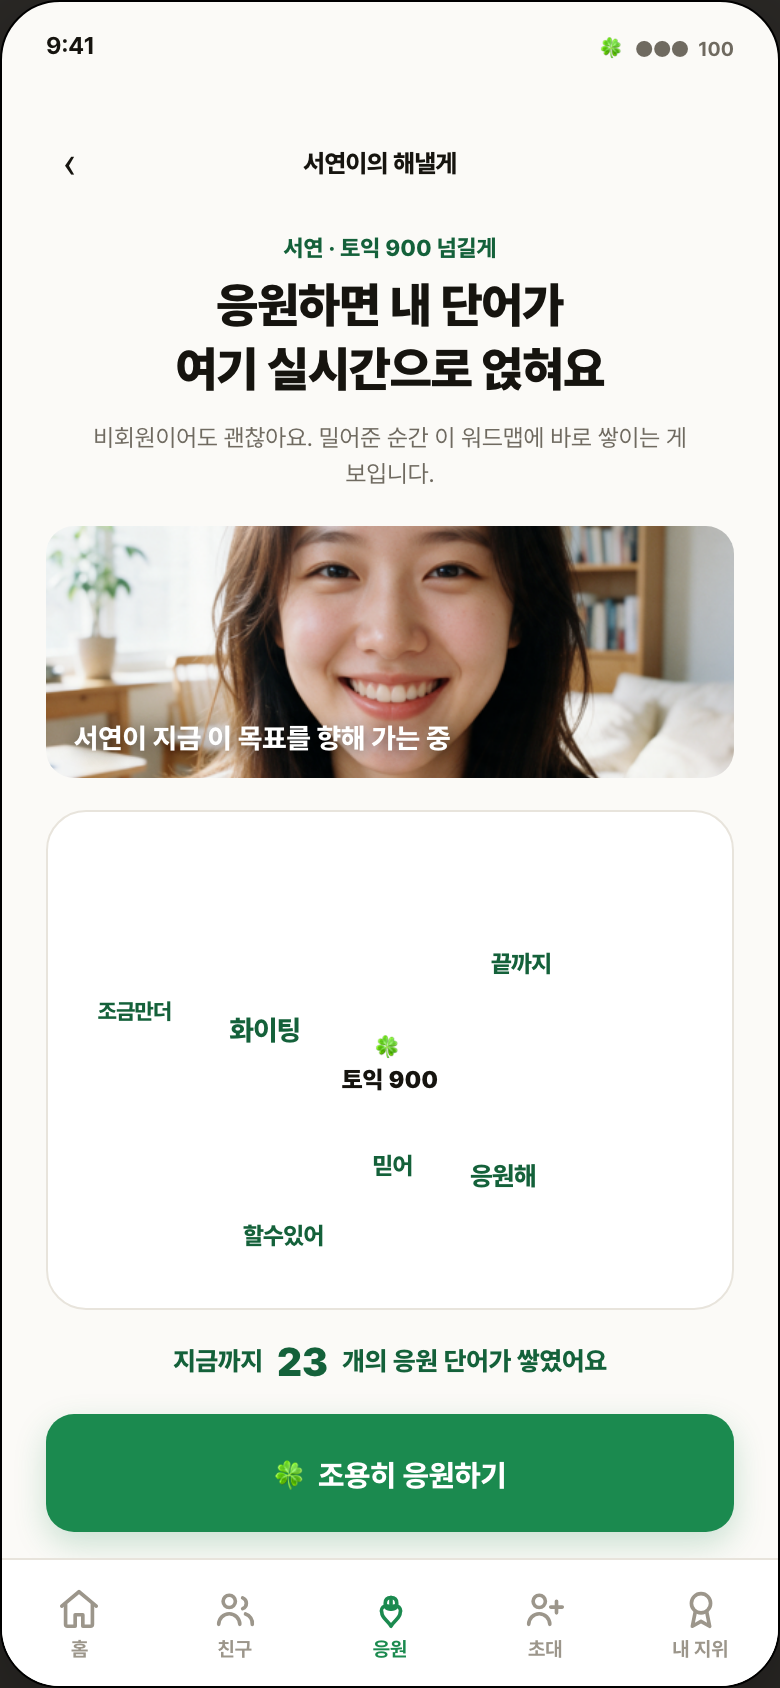
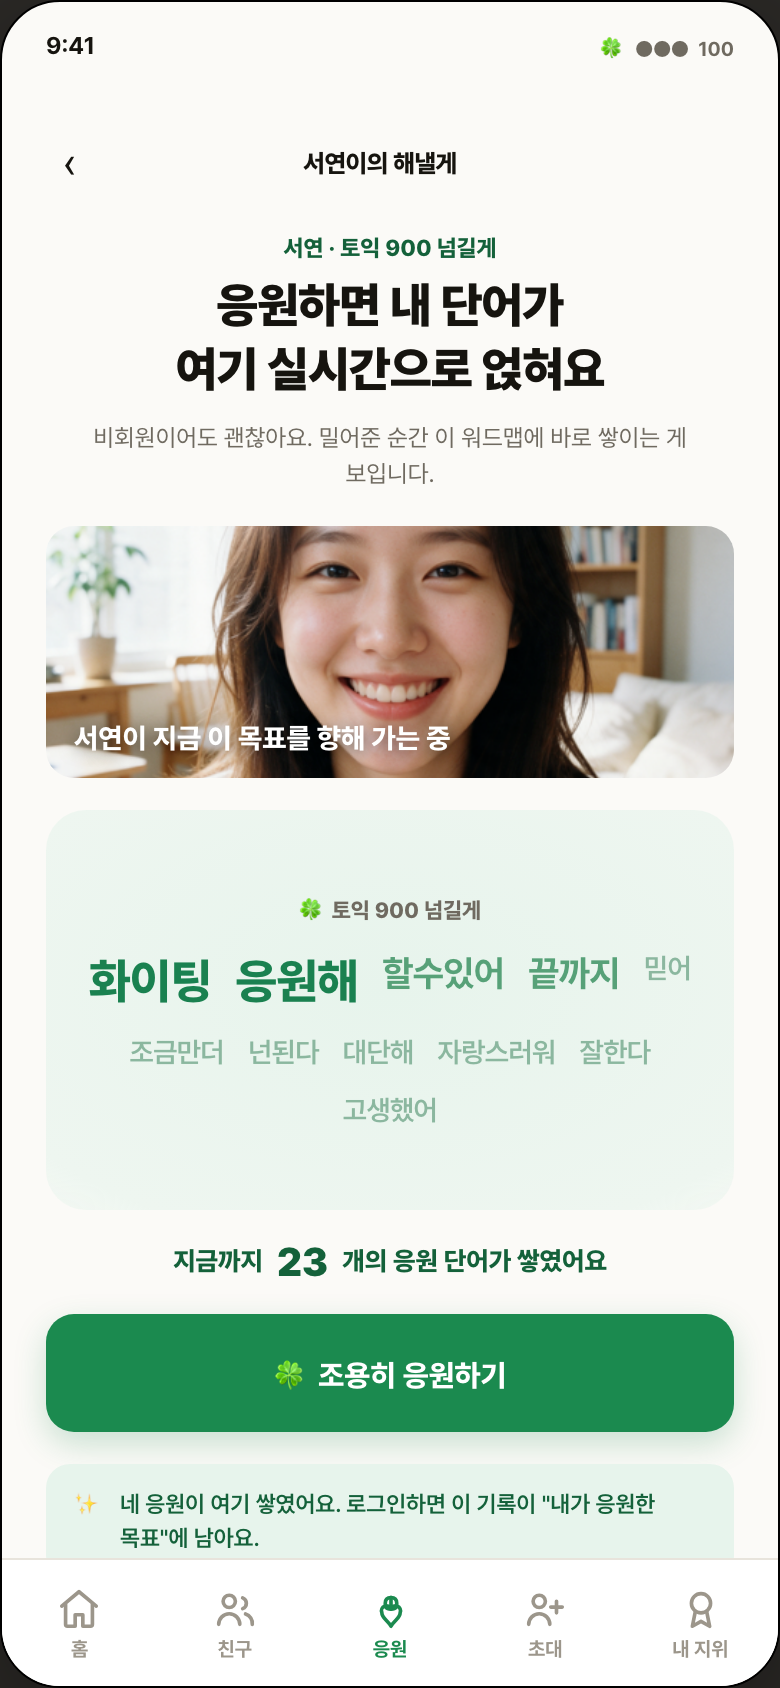
design(v2): 워드맵 빈도집계(SizeTier)·홈 목표관리·결제 전이트리거 실배포 로직 계승 (회장 2026-09-25)

diff --git a/docs/design/prototypes/social-viral-loop-v2-opus48.html b/docs/design/prototypes/social-viral-loop-v2-opus48.html
@@ -217,13 +217,17 @@
   .dopa-top h2{font-size:24px;font-weight:900;letter-spacing:-.3px;margin-top:6px;line-height:1.35;word-break:keep-all;}
   .dopa-top p{font-size:12px;color:var(--muted);margin-top:8px;line-height:1.55;word-break:keep-all;}
   /* 워드맵 캔버스 */
-  .wordmap{position:relative;height:250px;background:var(--surface);border:1px solid var(--line);border-radius:var(--r-lg);margin-top:16px;overflow:hidden;}
-  .wm-word{position:absolute;font-weight:800;letter-spacing:-.3px;color:var(--clover-ink);white-space:nowrap;transform:translate(-50%,-50%);}
-  .wm-word.mine{color:var(--clover-bright);}
-  .wm-word.landing{animation:wmland .62s cubic-bezier(.2,1.1,.35,1) both;}
-  @keyframes wmland{0%{opacity:0;transform:translate(-50%,-50%) scale(.5);}60%{transform:translate(-50%,-50%) scale(1.08);}100%{opacity:1;transform:translate(-50%,-50%) scale(1);}}
-  .wm-center{position:absolute;left:50%;top:50%;transform:translate(-50%,-50%);text-align:center;pointer-events:none;}
-  .wm-center .wc-goal{font-size:12px;font-weight:900;color:var(--ink);}
+  /* 워드맵 = 실배포 Wordmap.tsx 계승: 같은 단어 word_count 합산 → 빈도 tier(s1/s2/s3)로 크기·색, flex-wrap 클라우드(겹침 0 by construction), clover 옅은 radial */
+  .wordmap{display:flex;flex-wrap:wrap;align-content:center;justify-content:center;gap:10px 12px;min-height:200px;padding:20px 16px;border-radius:var(--r-lg);margin-top:16px;
+    background-image:radial-gradient(90% 90% at 50% 45%,var(--clover-soft),#EEF6F0 72%,transparent);}
+  .wm-word{letter-spacing:-.3px;line-height:1.35;transition:font-size .3s,color .3s;}
+  .wm-word.s1{color:#8bb79f;font-weight:600;font-size:14px;}
+  .wm-word.s2{color:#57a178;font-weight:700;font-size:18px;}
+  .wm-word.s3{color:#1a8150;font-weight:800;font-size:24px;}
+  .wm-word.landing{animation:wmland .5s cubic-bezier(.2,1.1,.35,1) both;}
+  @keyframes wmland{0%{opacity:0;transform:scale(.5);}60%{transform:scale(1.12);}100%{opacity:1;transform:scale(1);}}
+  .wm-goalword{width:100%;text-align:center;font-size:11px;font-weight:800;color:var(--muted);margin-bottom:2px;}
+  .wm-center,.wm-center .wc-goal{display:none;}
   .wm-count{display:flex;align-items:center;justify-content:center;gap:7px;margin-top:14px;font-size:13px;font-weight:800;color:var(--clover-ink);}
   .wm-count .n{font-size:20px;font-weight:900;transition:transform .3s;}
   .wm-count .n.bump{transform:scale(1.25);}
@@ -338,6 +342,14 @@
   .goalcard .gcheer{display:flex;align-items:center;gap:5px;font-size:12px;font-weight:800;color:var(--clover-ink);}
   .goalcard .gview{font-size:12px;font-weight:800;color:#fff;background:var(--clover);border:none;border-radius:var(--r-full);padding:9px 15px;cursor:pointer;box-shadow:0 4px 12px rgba(27,138,79,.2);}
   .home-past{font-size:11px;font-weight:700;color:var(--faint);margin:20px 2px 2px;}
+  .gactions{display:flex;gap:7px;margin-top:12px;flex-wrap:wrap;}
+  .gchip{display:inline-flex;align-items:center;gap:4px;font-size:11px;font-weight:700;color:var(--muted);background:var(--warm);border:1px solid var(--line);border-radius:var(--r-full);padding:7px 11px;cursor:pointer;}
+  .gchip svg{width:13px;height:13px;fill:none;stroke:currentColor;stroke-width:2;stroke-linecap:round;stroke-linejoin:round;}
+  .gchip.preview{background:var(--clover-soft);border-color:#cfe8d8;color:var(--clover-ink);}
+  .home-add{display:flex;align-items:center;justify-content:center;gap:7px;width:100%;border:1.5px dashed var(--clover);color:var(--clover-ink);background:var(--clover-soft);border-radius:var(--r-md);padding:14px;font-size:13px;font-weight:800;cursor:pointer;margin-top:13px;}
+  .home-cashout{display:flex;align-items:center;justify-content:space-between;background:var(--surface);border:1px solid var(--line);border-radius:var(--r-md);padding:13px 15px;margin-top:11px;cursor:pointer;}
+  .home-cashout .cl2{font-size:12px;font-weight:700;color:var(--ink);}
+  .home-cashout .cv2{font-size:11px;font-weight:800;color:var(--clover-ink);}
 
   /* ── 계승 화면 공통 ── */
   .wordmark{font-size:12.5px;font-weight:800;letter-spacing:-.2px;color:var(--ink);}
@@ -541,6 +553,13 @@
       <span class="fmeta"><span class="ml"><span class="mk">경로</span><span class="mv"><code>app/g/[slug]</code> · 배포됨</span></span><span class="ml"><span class="mk">진입</span><span class="mv">인스타·카톡 공유 링크 (비회원 도착점)</span></span><span class="ml"><span class="mk">상태</span><span class="mv">계승 · 도파민 순간의 실배포 바탕</span></span></span>
     </span>
   </div>
+  <div class="farrow"><span>↓</span><span class="lbl">"응원하기"(CheerPaymentButton) → 토스 PG(외부 리다이렉트)</span></div>
+  <div class="fnode" style="border-style:dashed;border-color:#8a857c;opacity:.85" onclick="alert('외부: 토스 PG 결제창. successUrl → /payment/success, failUrl → /payment/fail 로 콜백 복귀.')">
+    <span class="fi">💳</span><span class="fl">토스 PG (외부 결제창)
+      <span class="fmeta"><span class="ml"><span class="mk">경로</span><span class="mv">외부 · 토스페이먼츠 SDK</span></span><span class="ml"><span class="mk">콜백</span><span class="mv">successUrl → 결제성공 · failUrl → 결제실패</span></span></span>
+    </span>
+  </div>
+  <div class="farrow"><span>↓</span><span class="lbl">성공 콜백 → payment/success · 실패 콜백 → payment/fail</span></div>
   <div class="fnode" data-loop="login" onclick="go('login')">
     <span class="fi">🔑</span><span class="fl">카카오 로그인 (auth)
       <span class="fmeta"><span class="ml"><span class="mk">경로</span><span class="mv"><code>/auth/kakao/start</code> · 배포됨</span></span><span class="ml"><span class="mk">진입</span><span class="mv">온보딩 저장·재로그인·소셜 로그인 필요 시</span></span><span class="ml"><span class="mk">상태</span><span class="mv">계승 · 비회원↔회원 경계</span></span></span>
@@ -660,6 +679,11 @@
           <div class="gtop"><span class="chip dday">D-12</span><span class="chip status">진행 중</span></div>
           <h3>토익 900 넘길게</h3>
           <div class="greason">교환학생 지원 마감 전에 점수를 만들어야 해서.</div>
+          <div class="gactions">
+            <span class="gchip"><svg viewBox="0 0 24 24"><path d="M12 20h9"/><path d="M16.5 3.5a2.1 2.1 0 0 1 3 3L7 19l-4 1 1-4Z"/></svg>수정</span>
+            <span class="gchip preview" onclick="go('goalpublic')"><svg viewBox="0 0 24 24"><path d="M2 12s3.5-7 10-7 10 7 10 7-3.5 7-10 7-10-7-10-7Z"/><circle cx="12" cy="12" r="2.6"/></svg>친구에게 이렇게 보여요</span>
+            <span class="gchip" onclick="go('login')"><svg viewBox="0 0 24 24"><path d="M8.6 13.5l6.8 3.9M15.4 6.6l-6.8 3.9"/><circle cx="18" cy="5" r="2.6"/><circle cx="6" cy="12" r="2.6"/><circle cx="18" cy="19" r="2.6"/></svg>링크 공유</span>
+          </div>
           <div class="gfoot">
             <span class="gcheer">🍀 응원 23명</span>
             <button class="gview" onclick="go('dopamine')">워드맵 보기</button>
@@ -670,10 +694,21 @@
           <div class="gtop"><span class="chip dday">D-40</span><span class="chip status">진행 중</span></div>
           <h3>주 3회 러닝 습관 만들게</h3>
           <div class="greason">작년에 세 번 실패해서 이번엔 친구랑 같이 한다.</div>
+          <div class="gactions">
+            <span class="gchip"><svg viewBox="0 0 24 24"><path d="M12 20h9"/><path d="M16.5 3.5a2.1 2.1 0 0 1 3 3L7 19l-4 1 1-4Z"/></svg>수정</span>
+            <span class="gchip preview" onclick="go('goalpublic')"><svg viewBox="0 0 24 24"><path d="M2 12s3.5-7 10-7 10 7 10 7-3.5 7-10 7-10-7-10-7Z"/><circle cx="12" cy="12" r="2.6"/></svg>친구에게 이렇게 보여요</span>
+            <span class="gchip" onclick="go('login')"><svg viewBox="0 0 24 24"><path d="M8.6 13.5l6.8 3.9M15.4 6.6l-6.8 3.9"/><circle cx="18" cy="5" r="2.6"/><circle cx="6" cy="12" r="2.6"/><circle cx="18" cy="19" r="2.6"/></svg>링크 공유</span>
+          </div>
           <div class="gfoot">
             <span class="gcheer">🍀 응원 8명</span>
             <button class="gview" onclick="go('dopamine')">워드맵 보기</button>
           </div>
+        </div>
+
+        <button class="home-add" onclick="go('onboarding')">＋ 새 목표 만들기</button>
+        <div class="home-cashout" onclick="go('cashout')">
+          <span class="cl2">🍀 모은 클로버로 환전하기</span>
+          <span class="cv2">92개 지급 가능 ›</span>
         </div>
 
         <div class="home-past">지난 목표</div>
@@ -1043,7 +1078,15 @@
         </div>
         <div class="wm-count" style="margin-top:14px"><span>지금까지</span> <span class="n">23</span> <span>명이 응원했어요</span></div>
         <div class="wordmap" id="wordmap2" style="margin-top:10px">
-          <div class="wm-center"><div class="wc-goal">🍀<br>토익 900</div></div>
+          <div class="wm-goalword">🍀 토익 900 넘길게</div>
+          <span class="wm-word s3">화이팅</span>
+          <span class="wm-word s2">응원해</span>
+          <span class="wm-word s2">할수있어</span>
+          <span class="wm-word s2">끝까지</span>
+          <span class="wm-word s1">믿어</span>
+          <span class="wm-word s1">조금만더</span>
+          <span class="wm-word s1">넌된다</span>
+          <span class="wm-word s1">대단해</span>
         </div>
         <div style="height:150px"></div>
       </div></div>
@@ -1283,7 +1326,8 @@
   🏷 STAMP | line: core | 생성: 2026-09-23 07:40 KST | model: claude-opus-4-8 | agent: product-designer | 근거: globals.css·blueprint-v1.0.0·idea-ledger·결정.md D-003/D-009/D-017·friends-invite-v1<br>
   <b>STAMP</b> line=core · social-viral-loop-v2-opus48.html · 생성 2026-09-23 07:40 KST · model claude-opus-4-8 · agent product-designer<br>
   <b>v2 변경</b> ①왼쪽 전역 플로우맵 고정 레일 — 각 노드에 라우터 경로·진입 화면·신규/수정 diff를 레일 위 글자로 표기(신규↔기존 배포 화면 화살표 연결) ②인물 자리 Higgsfield 실사(seedream_v5_pro) 5종 삽입 — 이모지·이니셜 전량 제거 ③화면별 우측 검수 패널에 v2 개정 변경점(chg) 표출 ④아트보드 안 설계·원칙 주석(도파민 원칙·열린결정 배지) 전량 제거 → 검수 패널로 이관(아트보드 주석 0) ⑤기존 배포 홈((receiver)/me 다중목표) 실제 디바이스 프레임으로 계승 추가 + 하단 탭바에 홈 진입 신설<br>
-  <b>v2 확장(실배포 전수 계승)</b> ⑥실배포 라우트 15개 전수 Read(screen-inventory.md 정본·globals.css @theme 토큰·DESIGN.md 브랜드) → 커버리지 대조표(계승10·연결4·누락사유명시1·누락무사유0, 권한축 비회원·회원·관리자 + 돈축 결제·환전 전부 커버) ⑦누락 기존 화면 실프레임 계승: 랜딩·공개목표(g/[slug])·카카오로그인(auth)·온보딩·이용안내·결제성공·결제실패·환전·환전상태·관리자 ⑧버그: 도파민 워드맵 겹침0 충돌회피 배치 + 하단탭 이모지→인라인 SVG(단색 stroke·clover accent)<br>
+  <b>v2 확장(실배포 전수 계승)</b> ⑥실배포 라우트 15개 전수 Read(screen-inventory.md 정본·globals.css @theme 토큰·DESIGN.md 브랜드) → 커버리지 대조표(계승10·연결4·누락사유명시1·누락무사유0, 권한축 비회원·회원·관리자 + 돈축 결제·환전 전부 커버) ⑦누락 기존 화면 실프레임 계승: 랜딩·공개목표(g/[slug])·카카오로그인(auth)·온보딩·이용안내·결제성공·결제실패·환전·환전상태·관리자 ⑧하단탭 이모지→인라인 SVG(단색 stroke·clover accent)<br>
+  <b>v2 로직 계승(회장 "그림만 계승" 지적)</b> ⑨워드맵: 실배포 Wordmap.tsx 계승 — 같은 단어 word_count 합산·빈도 tier(s1 #8bb79f 14px/s2 #57a178 18px/s3 #1a8150 24px)·flex-wrap 클라우드(겹침0)·상위12. 응원 시 그 단어 +1 → tier 성장 ⑩홈: me/page.tsx 목표 관리 액션 계승(수정·친구뷰 미리보기·링크 공유·새 목표→온보딩·환전 진입) ⑪결제 트리거 체인: 응원하기→토스 PG(외부)→successUrl/failUrl→성공/실패를 레일·검수패널에 화살표로 명시<br>
   <b>skills</b> design-consultation(방향·토큰 상속 확인) · design-html(hi-fi 목업) · design-review(headless 렌더·클릭·상태토글 QA) · Higgsfield CLI(seedream_v5_pro 실사)<br>
   <b>토큰</b> web/src/app/globals.css 실독(clover #1B8A4F · warm #F4EFE6 · radius 12/14/20 · Pretendard) — 진실원 계승<br>
   <b>근거</b> haenael-v2-blueprint-v1.0.0-opus48.md(§3.4·§5·§6) · idea-ledger #11·#12·#13·2026-09-15·2026-09-21 · one-thing.md · 결정.md D-003·D-009 · 계승 프로토 friends-invite-v1·landing-wordmap-i18n-v2<br>
@@ -1296,7 +1340,7 @@
     home: {
       psych: '기준점(anchoring)+진행 가시화. 기존 배포 홈(내 목표 목록)을 그대로 계승해 회장이 "무엇이 바뀌었나"를 바로 대조하게 한다. 목표 카드·클로버 잔액·워드맵 보기 CTA는 실배포 그대로, 바뀐 건 하단탭 진입점뿐.',
       bench: '토스 홈(잔액+할 일 카드) · 당근 나의 당근 · Strava 홈 피드. "잔액 요약 + 진행 카드 리스트 + 단일 CTA" 구조 차용. 이 홈은 신규 발명이 아니라 실배포 (receiver)/me 계승.',
-      inherit: '계승: 실배포 web/src/app/(receiver)/me/page.tsx — 다중 목표(진행 중 최대 3 + 지난 목표), 목표 카드(제목·D-day·상태칩·응원 인원 클로버·"워드맵 보기"→/wordmap/{goalId}), 클로버 잔액. 신규: 하단탭에 친구·응원·초대·내지위 4개 진입점 신설(이 홈이 v2 루프의 관문).',
+      inherit: '계승: 실배포 web/src/app/(receiver)/me/page.tsx:235-360 — 다중 목표(진행 중 3+지난) + 목표 카드 관리 액션 전부: GoalEditSheet(수정)·MyLinkCard(링크 공유)·friend-view-preview(👀 친구에게 이렇게 보여요→/g/slug)·워드맵 보기(→/wordmap/goalId)·SplitBalanceCard(클로버 잔액)·환전 진입(→/cashout, pending 시 /cashout/status)·새 목표(→onboarding). 목록만이 아니라 관리 CRUD 진입을 계승. 신규: 하단탭 4개 소셜 진입점.',
       prd: '실배포 계승 화면. 다중목표=설계 4.4~4.6절. v2 변경분(하단탭 신규 진입점)만 이번 스코프. PRD 정본은 기존 receiver-home 유지 + 소셜 진입점 plan 승격 대기.',
       chg: [
         {w:'<b>기존 배포 홈을 실제 디바이스 프레임으로 프로토타입에 추가</b> — 레일 노드로만 두지 않고 실화면 계승. 홈에서 v2가 무엇을 바꿨는지(하단탭 신규 진입점)가 눈에 보임.', fb:'회장: "기존 화면도 보여주어서 어떻게 변경됐거나 흐름이 연결되는지 보여줘야지"'},
@@ -1355,7 +1399,7 @@
     dopamine: {
       psych: '즉각 보상(variable reward의 조용한 변형)+진행 가시화. 응원 순간 내 단어가 워드맵에 얹히는 걸 "직접 보게" 해 activation 도파민을 준다. 비회원 피드백은 손실회피("이 기록이 남아요")로 승격을 당김.',
       bench: 'Strava 기록 실시간 반영 · 인스타 좋아요 애니메이션 · 카훗 실시간 집계. "즉각 시각 피드백"을 차용하되 폭죽·순위상승 알림(D-003 위배)은 배제.',
-      inherit: '계승: landing-wordmap-i18n-v2의 워드맵 구성·clover-ink 단어색. 신규: 클릭 시 단어 실시간 적립 @keyframes wmland·카운터 bump·비회원 피드백 배너.',
+      inherit: '계승(실배포 로직): web/src/components/goal/Wordmap.tsx — normalizeWords(같은 단어 word_count 합산·내림차순 정렬)·getSizeTier(ratio (count-min)/(max-min) ≥.67 s3 / ≥.34 s2 / else s1)·TIER_STYLE(s1 #8bb79f 14px / s2 #57a178 18px / s3 #1a8150 24px)·flex-wrap 클라우드(겹침 0 by construction)·상위 12개·clover 옅은 radial 배경. 프로토타입도 이 빈도 집계 그대로 재현 — 자주 나온 단어는 크게. 신규: 클릭 시 그 단어 word_count +1 → tier 재계산해 실시간 성장(landing 애니).',
       prd: 'idea-ledger 2026-09-21(도파민 UX·비회원 activation) · user-flow 2절(비로그인 열람·승격 CTA). blueprint 3.2 접합. PRD 5.2 승격 CTA 인접.',
       chg: [
         {w:'목표 주인공(서연)의 <b>실사 히어로 사진</b> 삽입 — 비회원이 "누구를 응원하는지" 얼굴로 인지.', fb:'회장: "힉스필드는 안씀?"'},
@@ -1401,16 +1445,16 @@
       bench:'토스 송금 완료 · 결제 성공 카드(스트라이프). 성공 카드+맥락 복귀 CTA 차용.',
       inherit:'계승(실배포): web/src/app/payment/success/page.tsx:81-113 — 중앙 카드·Clover 아이콘(lucide SVG)·"응원이 전달됐어요"·목표 제목 반영 메시지·친구 목표로 돌아가기. v2 미변경.',
       prd:'실배포 계승. screen-inventory G4. 토스 결제 승인 후 착지(돈축).',
-      flow:[['진입','토스 결제 승인 콜백'],['이탈','친구 목표로(goal-public) · 해낼게 홈(landing)']],
-      opendec:'없음(실배포 계승).'
+      flow:[['트리거 체인','공개목표/도파민 "응원하기"(CheerPaymentButton) → 토스 PG(외부) → successUrl'],['진입','토스 successUrl 콜백 → confirmPayment({paymentKey,orderId,amount}) 승인'],['이탈','goalSlug 있으면 친구 목표로(/g/slug) 복귀(워드맵 반영) · 없으면 홈']],
+      opendec:'외부 콜백 화면: 이 화면은 사용자가 직접 못 열고 토스 결제 승인 리다이렉트로만 도달. confirmPayment 실패 시 같은 화면에서 error 분기(status=error).'
     },
     payfail: {
       psych:'불안 최소화+회복 경로. "결제가 멈췄어요"로 실패를 담담히 알리고 즉시 재시도 경로 제공.',
       bench:'토스/스트라이프 결제 실패 카드. 사유 표시+재시도 차용.',
       inherit:'계승(실배포): web/src/app/payment/fail/page.tsx:21-37 — 중앙 카드·CircleAlert(lucide SVG)·"결제가 멈췄어요"·message 쿼리·홈 복귀. v2 미변경.',
       prd:'실배포 계승. screen-inventory G4(돈축 환불·실패).',
-      flow:[['진입','토스 결제 실패 콜백'],['이탈','다시 응원(goal-public) · 홈(landing)']],
-      opendec:'환불(취소) 전용 화면은 실배포에 별도 라우트 없음 — 결제 실패/환전 반려로 커버. 대조표 참조.'
+      flow:[['트리거 체인','공개목표/도파민 "응원하기" → 토스 PG(외부) → failUrl(사용자 취소·카드 오류·타임아웃)'],['진입','토스 failUrl 콜백 → message 쿼리 표시'],['이탈','다시 응원(goal-public) · 홈(landing)']],
+      opendec:'외부 콜백 화면: 토스 failUrl 리다이렉트로만 도달. 환불(취소) 전용 화면은 실배포에 별도 라우트 없음 — 결제 실패/환전 반려(REJECTED)로 커버. 대조표 참조.'
     },
     cashout: {
       psych:'투명성+신뢰. 지급 가능 클로버·원천징수·실수령액을 미리 다 보여줘 돈 관련 불신을 없앤다.',
@@ -1542,65 +1586,45 @@
     document.getElementById('rankPreview').classList.toggle('show', sw.classList.contains('on'));
   }
 
-  // 도파민 순간 — 응원 시 워드맵 실시간 적립 (조용한 도파민 · 겹침 0 배치)
-  const dopaWords=['잘한다','응원해','화이팅','넌된다','조금만','대단해','자랑스러워','끝까지','믿어','고생했어'];
-  let dopaIdx=0, wmTotal=23;
-  let wmPlaced=[]; // 배치된 단어 박스 {x,y,w,h} in % (중심좌표)
-  // 두 박스가 겹치는지 (가운데 목표칩 포함, 여백 gap%)
-  function wmOverlap(a,b,gap){
-    return Math.abs(a.x-b.x)*2 < (a.w+b.w+gap) && Math.abs(a.y-b.y)*2 < (a.h+b.h+gap);
+  // ── 워드맵 = 실배포 Wordmap.tsx(normalizeWords·getSizeTier) 계승 ──
+  // 같은 단어 word_count 합산 → 내림차순 정렬 → 빈도 ratio 로 s1/s2/s3 크기·색 → 상위 12개 flex-wrap 렌더(겹침 0)
+  const dopaWords=['잘한다','응원해','화이팅','넌된다','조금만더','대단해','자랑스러워','끝까지','믿어','고생했어'];
+  let dopaIdx=0, wmTotal=23, lastWord='';
+  // 실배포 get_wordmap RPC 결과 모사: {단어: word_count}
+  let wmCounts={'화이팅':8,'응원해':6,'할수있어':5,'끝까지':4,'믿어':3,'조금만더':3,'넌된다':2,'대단해':2,'자랑스러워':1,'잘한다':1,'고생했어':1};
+  // 실배포 getSizeTier: n===1→s3, max===min→s2, ratio(count-min/max-min) ≥.67 s3 / ≥.34 s2 / else s1
+  function wmTier(count,min,max,n){
+    if(n===1) return 's3';
+    if(max===min) return 's2';
+    const r=(count-min)/(max-min);
+    return r>=0.67?'s3':r>=0.34?'s2':'s1';
   }
-  // 단어 하나를 겹치지 않는 자리에 배치 (실패 시 가장 덜 겹치는 자리)
-  function wmPlace(word,size){
-    const wm=document.getElementById('wordmap');
-    const W=wm.clientWidth||330, H=wm.clientHeight||300;
-    const bw=(word.length*size*0.66+14)/W*100;   // 박스 폭 %
-    const bh=(size*1.5+8)/H*100;                   // 박스 높이 %
-    const center={x:50,y:50,w:(72/W*100),h:(56/H*100)}; // 가운데 목표칩
-    let best=null,bestScore=Infinity;
-    for(let i=0;i<140;i++){
-      const ang=Math.random()*Math.PI*2, rad=18+Math.random()*30;
-      const x=50+Math.cos(ang)*rad, y=50+Math.sin(ang)*rad*0.82;
-      const box={x,y,w:bw,h:bh};
-      if(x-bw/2<3||x+bw/2>97||y-bh/2<5||y+bh/2>95) continue; // 프레임 밖
-      let overlap=0;
-      if(wmOverlap(box,center,3)) overlap+=100;
-      for(const p of wmPlaced) if(wmOverlap(box,p,2.5)) overlap++;
-      if(overlap===0){ best=box; break; }
-      if(overlap<bestScore){ bestScore=overlap; best=box; }
-    }
-    wmPlaced.push(best);
-    return best;
-  }
-  // 초기 6개 시드 단어 배치 (겹침 0)
-  function wmInit(){
+  function wmRender(changed){
     const wm=document.getElementById('wordmap'); if(!wm) return;
-    wmPlaced=[];
-    const seeds=[['화이팅',14],['할수있어',12],['응원해',13],['조금만더',11],['믿어',12],['끝까지',12]];
-    seeds.forEach(([word,size])=>{
-      const b=wmPlace(word,size);
-      const el=document.createElement('div'); el.className='wm-word';
-      el.textContent=word; el.style.left=b.x+'%'; el.style.top=b.y+'%'; el.style.fontSize=size+'px';
-      wm.appendChild(el);
-    });
+    // normalizeWords: 합산은 이미 map. 내림차순 정렬(동률은 삽입순 유지 불필요 — 값으로만)
+    const entries=Object.entries(wmCounts).sort((a,b)=>b[1]-a[1]);
+    const counts=entries.map(e=>e[1]);
+    const min=Math.min(...counts), max=Math.max(...counts), n=entries.length;
+    const visible=entries.slice(0,12); // 실배포도 상위 12개만 표시
+    wm.innerHTML='<div class="wm-goalword">🍀 토익 900 넘길게</div>'+
+      visible.map(([word,c])=>{
+        const tier=wmTier(c,min,max,n);
+        const anim=(word===changed)?' landing':'';
+        return '<span class="wm-word '+tier+anim+'">'+word+'</span>';
+      }).join('');
   }
+  function wmInit(){ wmRender(); }
   function dropWord(){
-    const wm=document.getElementById('wordmap');
+    // 실배포 병합 모사: 눌러 응원하면 그 단어의 word_count 가 +1 되어 tier 가 커진다(재창조 아님)
     const word=dopaWords[dopaIdx%dopaWords.length]; dopaIdx++;
-    const size=12+Math.floor(Math.random()*3);
-    const b=wmPlace(word,size);
-    const w=document.createElement('div');
-    w.className='wm-word mine landing';
-    w.textContent=word;
-    w.style.left=b.x+'%'; w.style.top=b.y+'%'; w.style.fontSize=size+'px';
-    wm.appendChild(w);
-    // 카운터 bump
+    wmCounts[word]=(wmCounts[word]||0)+1;
+    lastWord=word;
+    wmRender(word);
     wmTotal++;
     const c=document.getElementById('wmCount');
     c.textContent=wmTotal; c.classList.add('bump');
     setTimeout(()=>c.classList.remove('bump'),300);
-    // 비회원 피드백 갱신
-    document.getElementById('guestFeed').innerHTML='"<b>'+word+'</b>" 응원이 방금 여기 얹혔어요. 로그인하면 이 기록이 "내가 응원한 목표"에 남아요.';
+    document.getElementById('guestFeed').innerHTML='"<b>'+word+'</b>" 응원이 방금 얹혔어요. 같은 단어가 쌓일수록 더 크게 자라요. 로그인하면 이 기록이 "내가 응원한 목표"에 남아요.';
     const btn=document.getElementById('cheerBtn');
     btn.textContent='🍀 조용히 닿았어요'; setTimeout(()=>{btn.textContent='🍀 조용히 응원하기';},1100);
   }
